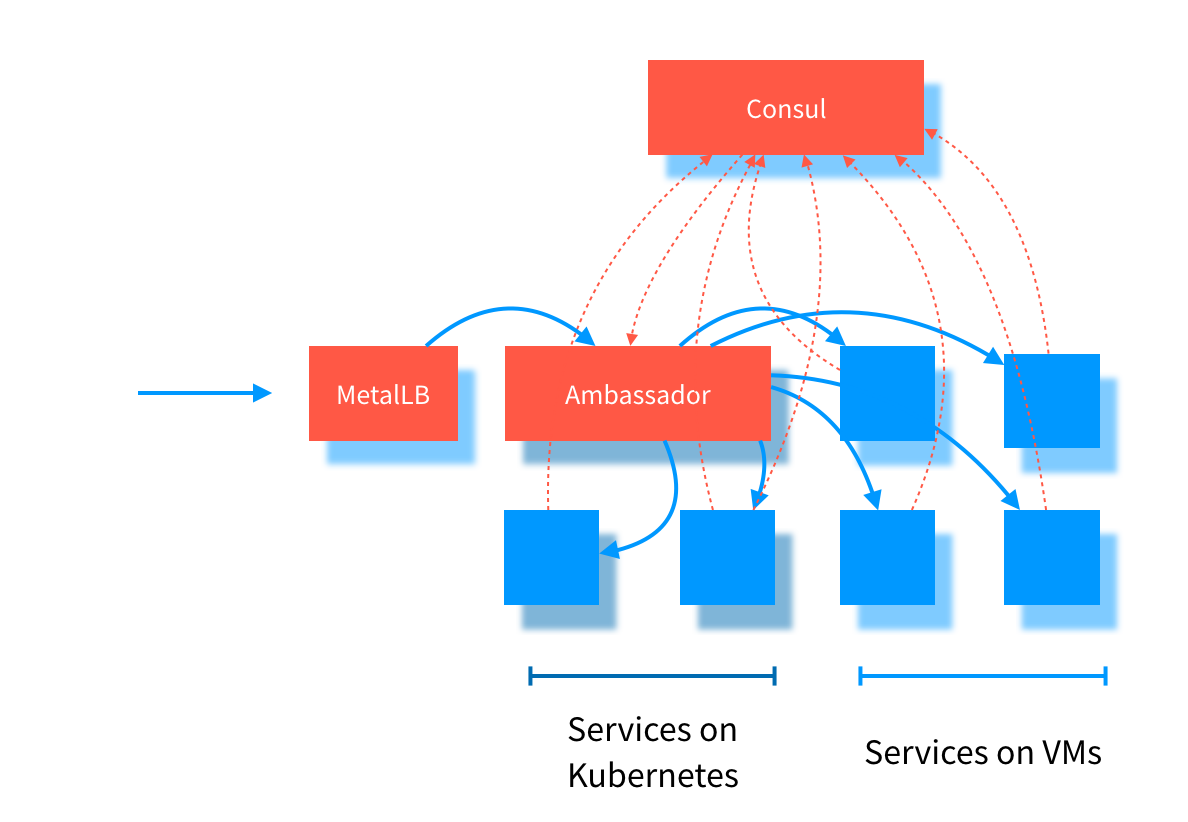
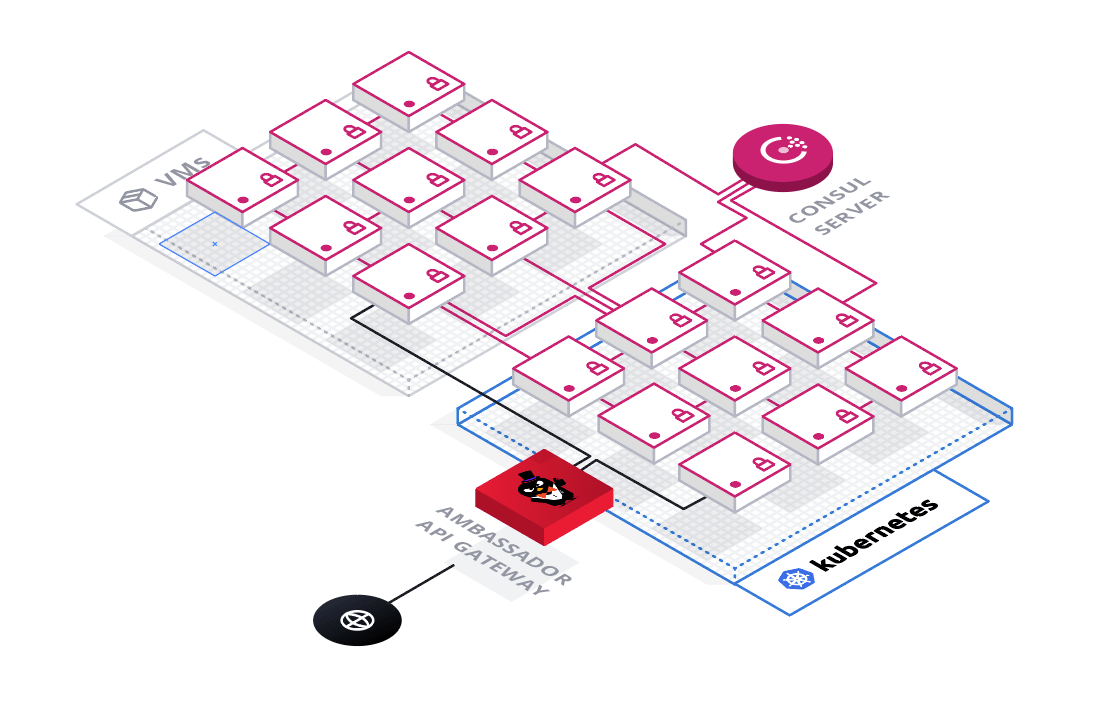
add image

diff --git a/user-guide/consul.md b/user-guide/consul.md
@@ -2,6 +2,12 @@
 
 [Consul](https://www.consul.io) is a widely used service mesh. Ambassador natively supports Consul for service discovery and end-to-end TLS (including mTLS between services). This capability is particularly useful when deploying Ambassador in so-called hybrid clouds, where applications are deployed on bare metal, VMs, and Kubernetes. In this environment, Ambassador can securely route over TLS to any application regardless of where it is deployed.
 
+## Architecture Overview
+
+In this architecture, Consul serves as the source of truth for your entire data center, tracking available endpoints, service configuration, and secrets for TLS encryption. New applications and services automatically register themselves with Consul using the Consul agent or API. When a request is sent through Ambassador, Ambassador sends the request to an endpoint based on the data in Consul.
+
+![ambassador-consul](/doc-images/consul-ambassador.png)
+
 ## Getting started
 
 In this guide, you will register a service with Consul and use Ambassador to dynamically route requests to that service based on Consul's service discovery data.
